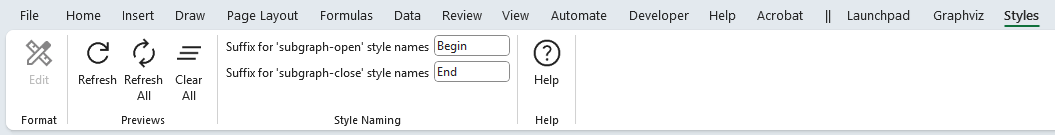
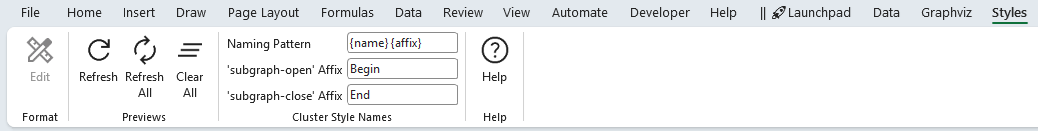
v11.0 Update styles documentation for affix feature

diff --git a/docs/styles/index.md b/docs/styles/index.md
@@ -71,8 +71,10 @@ It contains the following groups, each of which is explained in the sections tha
 
 The `Format` group controls facilitate editing the style format.
 
+| |
+|-|
 | ![Format group icons.](./styles-format-edit.png) |
-| -------------------------------------------------- |
+| |
 
 | Label       | Control Type  | Description    |
 | ----------- | :----------: | -------------- |
@@ -80,8 +82,10 @@ The `Format` group controls facilitate editing the style format.
 
 ### Previews
 
+| |
+|-|
 | ![Previews group icons.](./styles-ribbon-tab-previews.png) |
-| -------------------------------------------------- |
+| |
 
 The **Previews** group provides the action buttons used to manage the style preview images on the `Styles` worksheet.
 
@@ -91,18 +95,18 @@ The **Previews** group provides the action buttons used to manage the style prev
 | Refresh All | Button        | Deletes all preview images on the `styles` worksheet and generates a completely new set. This is useful when you make a bulk change to *all* style definitions, such as updating a font name or size. |
 | Clear All   | Button        | Deletes all the images on the `styles` worksheet. |
 
-### Style Naming
+### Cluster Style Naming
 
+| |
+|-|
 | ![Style naming group icons.](./styles-ribbon-tab-style-naming.png) |
-| -------------------------------------------------- |
+| |
 
-Two rows are created when you use the [`style designer`](../designer/) to define a style for a cluster. These settings allow you to specify the suffix appended to the style name to indicate where the cluster begins and ends.
+Two rows are created when you use the [`style designer`](../designer/) to define a style for a cluster. These settings allow you to specify the affix appended to the style name to indicate where the cluster begins and ends.
 
-The default suffixes are **" Begin"** and **" End"**, but you may choose alternatives such as **" Start"/" Stop"** or **" Open"/" Close"**.
+The Naming Pattern defines how the style name should be constructed. It contains 2 placeholders `{name}` and `{affix}` which are replaced when the styles are saved. The default naming pattern is `{name} {affix}` (suffix style). You are free to change the naming pattern to values such as `{name} {affix}` (no blank between values), `{name}_{affix}` (slugified format), or `{affix} {name}` (prefix style). 
 
-These values are also used by the `sql` worksheet when emitting rows when `CLUSTER` and `SUBCLUSTER` clauses are used in the `SQL` statement. See the [sql](../sql/) topic for more information.
-
-Two rows are created when you use the [`style designer`](../designer/) to define a style for a cluster. These settings specify the suffix appended to the style name to indicate where the cluster begins and ends. The default suffixes are **"Begin"** and **"End"**, but you may choose alternatives such as **"Start"/"Stop"** or **"Open"/"Close"**.
+The default affixes are **"Begin"** and **"End"**, but you may choose alternatives such as **"Start"/"Stop"** or **"Open"/"Close"**.
 
 These suffix values are also used by the `sql` worksheet when generating rows for `CLUSTER` and `SUBCLUSTER` clauses in an `SQL` statement. For more details on how SQL-driven clustering works, see the [Grouping Data into Clusters and Subclusters](../sql/extensions/#grouping-data-into-clusters-and-subclusters) topic.
 
@@ -113,8 +117,10 @@ These suffix values are also used by the `sql` worksheet when generating rows fo
 
 ### Help
 
+| |
+|-|
 | ![Help group icons.](./styles-ribbon-tab-help.png) |
-| -------------------------------------------------- |
+| |
 
 Provides a link to the `Help` content for the `Info` worksheet (i.e. this web page).
 
